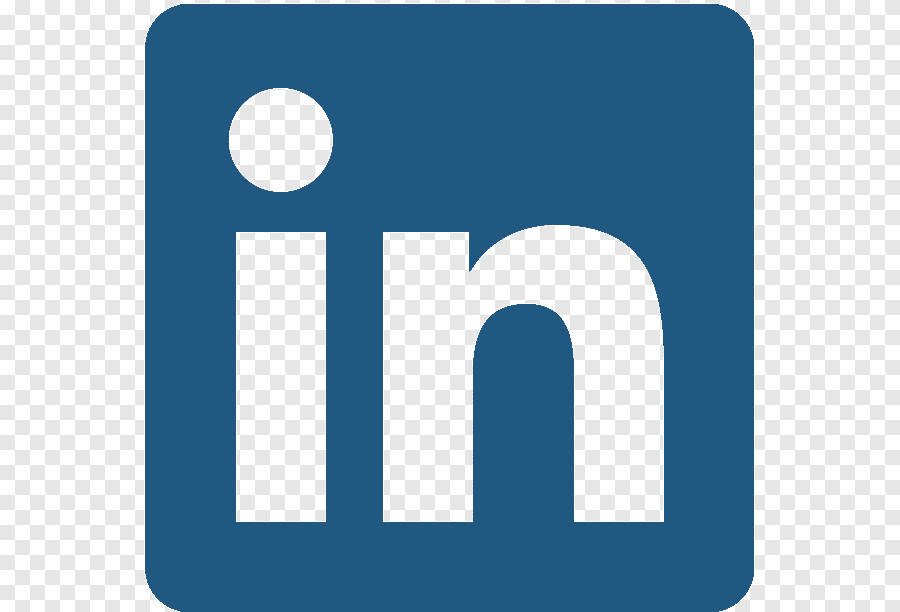
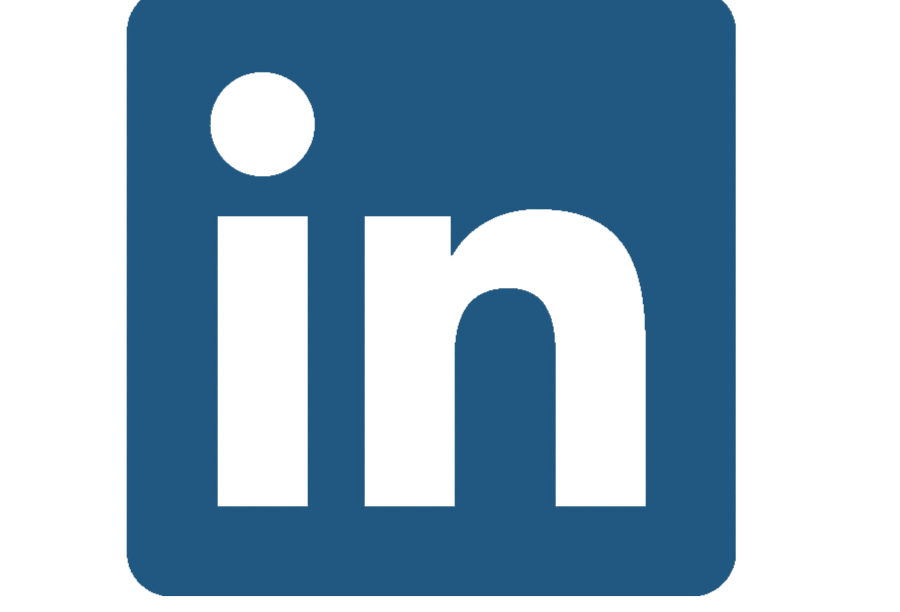
removed the transparent background to the butotns

diff --git a/src/LetsConnect.js b/src/LetsConnect.js
@@ -4,18 +4,23 @@ import Col from 'react-bootstrap/Col';
 import React from "react";
 import Button from 'react-bootstrap/Button';
 import Container from "react-bootstrap/esm/Container";
-import LinkedinIcon from "./Images/Linkedin.png";
+import Email from "./Images/Email.png";
+import LinkedinIcon from "./Images/LinkedinIcon.png";
+import GithubLogo from "./Images/GithubLogo.png";
+import "./LetsConnect.css";
 export default function LetsConnect(){
     return(
-        <>
+        <div className="scbuttons">
+        
         <Container>
         <Row>
-       <Image>{LinkedinIcon}</Image>
-        <Col><Button> Email</Button></Col>
-        <Col><Button>Github</Button></Col>
+          
+       <Col id="Linkedin">< Button variant="outline-*" ><  img src={LinkedinIcon}/></Button></Col>
+        <Col id="github"><Button variant = "outline-*"><img src={GithubLogo}/></Button></Col>
+        <Col id="mail"><Button variant="outline-*"><img src={Email}></img></Button></Col>
         </Row>
         </Container>
-        
-        </>
+    
+        </div>
     );
 }

diff --git a/src/LetsConnect.css b/src/LetsConnect.css
@@ -1,0 +1,19 @@
+.scbuttons{
+   mix-blend-mode: multiply;
+background: none;
+
+}
+
+
+
+#Linkedin{
+width: 100%;
+height: auto;
+}
+#github{
+width: 100%;
+align-items: center;
+}
+#email img{
+    width: 100%;
+}

diff --git a/src/Project.css b/src/Project.css
@@ -3,3 +3,8 @@ body{
 
    
 }
+img{
+    width: 100%;
+    background-color:#52796F;
+    background: none;
+}
